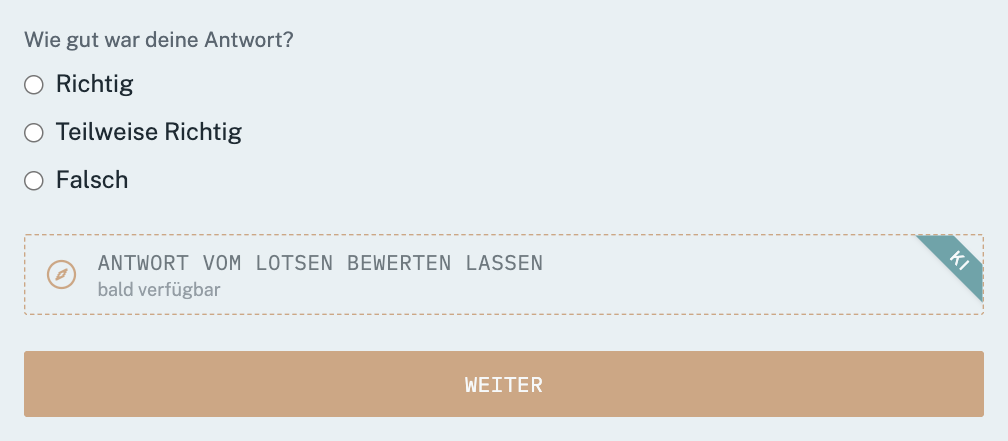
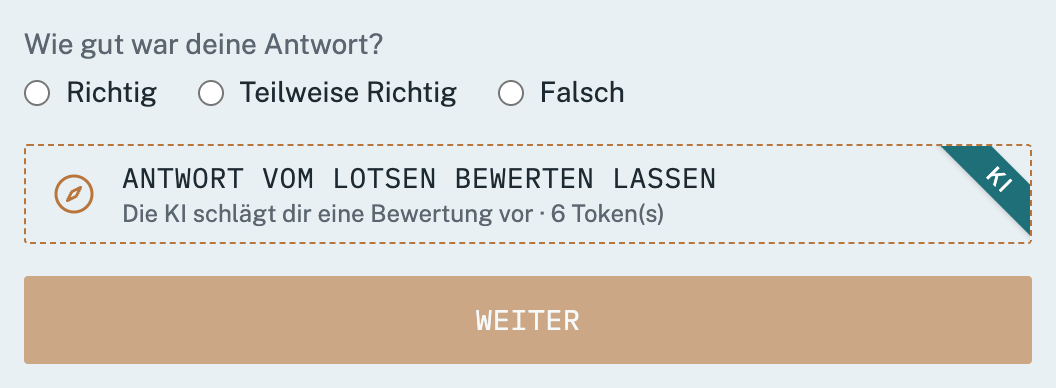
Landing: retake all app screenshots from the current UI
The exam and practice shots predated the navigation overhaul (old
"Frage 1 von 22" header, no "Fokus-Lernen starten", exam without the
Zurück/Übersicht/Weiter row) and the Lotsen-Check shot still showed
"bald verfügbar". All seven are recaptured from a demo account on the
running app (headless Chrome, 2x), with new dimensions and alt texts.

diff --git a/frontend/src/pages/LandingPage.tsx b/frontend/src/pages/LandingPage.tsx
@@ -26,8 +26,8 @@ const LANDING_FAQ = FAQ.filter((entry) => LANDING_FAQ_IDS.has(entry.id))
 const SCREENSHOTS = [
   {
     src: '/screenshots/frage-beantworten.png',
-    width: 1008,
-    height: 536,
+    width: 1056,
+    height: 654,
     title: '1. Frage beantworten',
     text: 'Eine Frage aus dem Katalog, dazu ein optionales Notizfeld für deine Antwort – sie wird nicht gespeichert.',
     alt: 'Screenshot: Die Frage „Was bedeutet die Abkürzung GPS?“ mit ausgefülltem Antwortfeld und der Schaltfläche „Lösung anzeigen“.',
@@ -35,8 +35,8 @@ const SCREENSHOTS = [
   },
   {
     src: '/screenshots/selbst-bewerten.png',
-    width: 1008,
-    height: 494,
+    width: 1056,
+    height: 502,
     title: '2. Mit der Musterantwort vergleichen',
     text: 'Neben deiner Antwort steht die amtliche Musterantwort – so siehst du direkt, was gefehlt hat.',
     alt: 'Screenshot: Deine Antwort zur Frage „Was bedeutet die Abkürzung GPS?“ neben der amtlichen Antwort „Global Positioning System“.',
@@ -44,20 +44,20 @@ const SCREENSHOTS = [
   },
   {
     src: '/screenshots/ki-bewertung.png',
-    width: 1008,
-    height: 441,
+    width: 1056,
+    height: 388,
     title: '3. Selbst bewerten – mit KI-Vorschlag',
     text: 'Du bewertest dich selbst: richtig, teilweise richtig oder falsch. Auf Wunsch schlägt dir der Lotsen-Check per KI eine Bewertung vor – die Entscheidung bleibt bei dir.',
-    alt: 'Screenshot: Auswahl Richtig, Teilweise Richtig, Falsch und darunter die abgeblendete Schaltfläche „Antwort vom Lotsen bewerten lassen“ mit dem Hinweis „bald verfügbar“ und einem KI-Band.',
+    alt: 'Screenshot: Auswahl Richtig, Teilweise Richtig, Falsch und darunter die Schaltfläche „Antwort vom Lotsen bewerten lassen“ mit dem Hinweis „Die KI schlägt dir eine Bewertung vor“ und einem KI-Band.',
     wide: false,
   },
   {
     src: '/screenshots/lernstand.png',
-    width: 1392,
-    height: 1170,
+    width: 1456,
+    height: 1600,
     title: '4. Lernstand und Fokus',
     text: 'Gesamtfortschritt und Verteilung nach Fachgebieten. Markiere Themen als Fokus und sieh, wie viele Fragen du sicher oder teilweise gelernt hast.',
-    alt: 'Screenshot: Übersicht Lernen mit Gesamtfortschritt in Prozent, einem Kreisdiagramm der Fachgebiete, der Auswahl der Prüfungsvariante und dem Fokus-Bereich mit drei markierten Themen und ihrem Lernstand.',
+    alt: 'Screenshot: Übersicht Lernen mit Gesamtfortschritt in Prozent, einem Kreisdiagramm der Fachgebiete, der Auswahl der Prüfungsvariante und dem Fokus-Bereich mit der Schaltfläche „Fokus-Lernen starten“ sowie drei markierten Themen und ihrem Lernstand.',
     wide: true,
   },
 ]
@@ -65,8 +65,8 @@ const SCREENSHOTS = [
 const EXAM_SCREENSHOTS = [
   {
     src: '/screenshots/pruefung-starten.png',
-    width: 700,
-    height: 390,
+    width: 1056,
+    height: 834,
     title: '1. Prüfung starten',
     text: 'Eine zufällige Prüfung wie im Fragebogen der echten Prüfung: 30 Fragen in maximal 90 Minuten, ohne Tipps. Frühere Prüfungen bleiben in der Übersicht.',
     alt: 'Screenshot: Die Prüfungssimulation mit den Regeln, der Schaltfläche „Prüfung starten“ und der Liste bisheriger Prüfungen mit Punkten und Ergebnis.',
@@ -74,17 +74,17 @@ const EXAM_SCREENSHOTS = [
   },
   {
     src: '/screenshots/pruefung-ablegen.png',
-    width: 700,
-    height: 335,
+    width: 1056,
+    height: 854,
     title: '2. Fragebogen beantworten',
     text: 'Du beantwortest alle Fragen in eigenen Worten, mit Restzeit im Blick. Die Zeit wird serverseitig überwacht.',
-    alt: 'Screenshot: Prüfungsfrage „Was bedeutet die Abkürzung GPS?“ mit ausgefülltem Antwortfeld, Fortschrittsanzeige und Restzeit.',
+    alt: 'Screenshot: Prüfungsfrage „Was bedeutet die Abkürzung GPS?“ mit ausgefülltem Antwortfeld, Fortschrittsanzeige „1 / 30“, verbleibender Zeit und den Schaltflächen Zurück, Übersicht und Weiter.',
     wide: false,
   },
   {
     src: '/screenshots/pruefung-ergebnis.png',
-    width: 700,
-    height: 440,
+    width: 1056,
+    height: 918,
     title: '3. Ergebnis und Auswertung',
     text: 'Danach schätzt du deine Antworten anhand der amtlichen Antworten selbst ein. Du siehst deine Punkte, das Ergebnis und die Auswertung nach Fachgebiet.',
     alt: 'Screenshot: Prüfungsergebnis mit 54 von 60 Punkten, „Bestanden“ und Balken je Fachgebiet für Navigation, Schifffahrtsrecht, Wetterkunde und Seemannschaft.',
